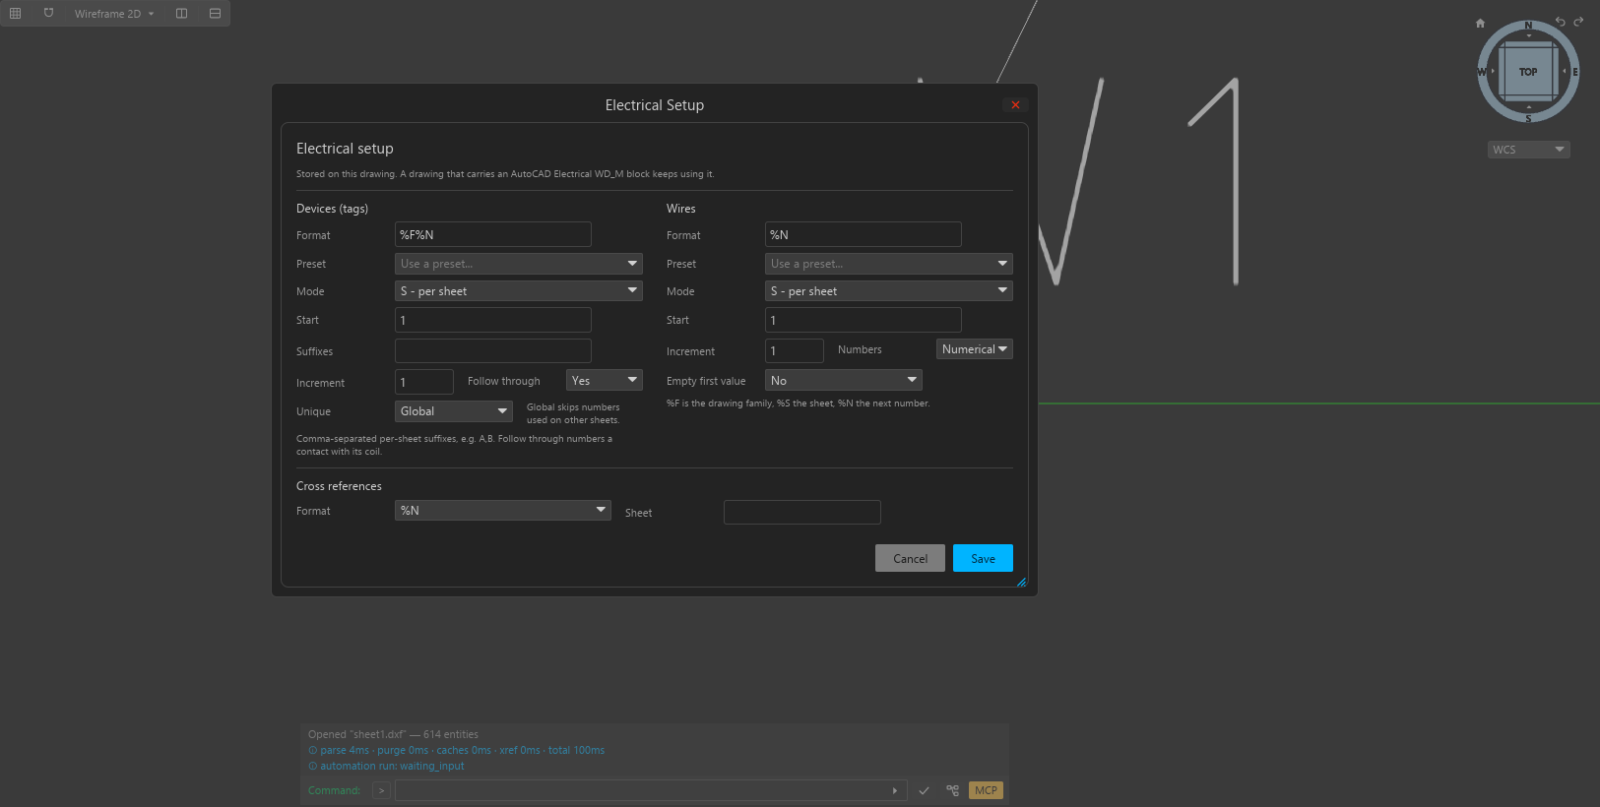
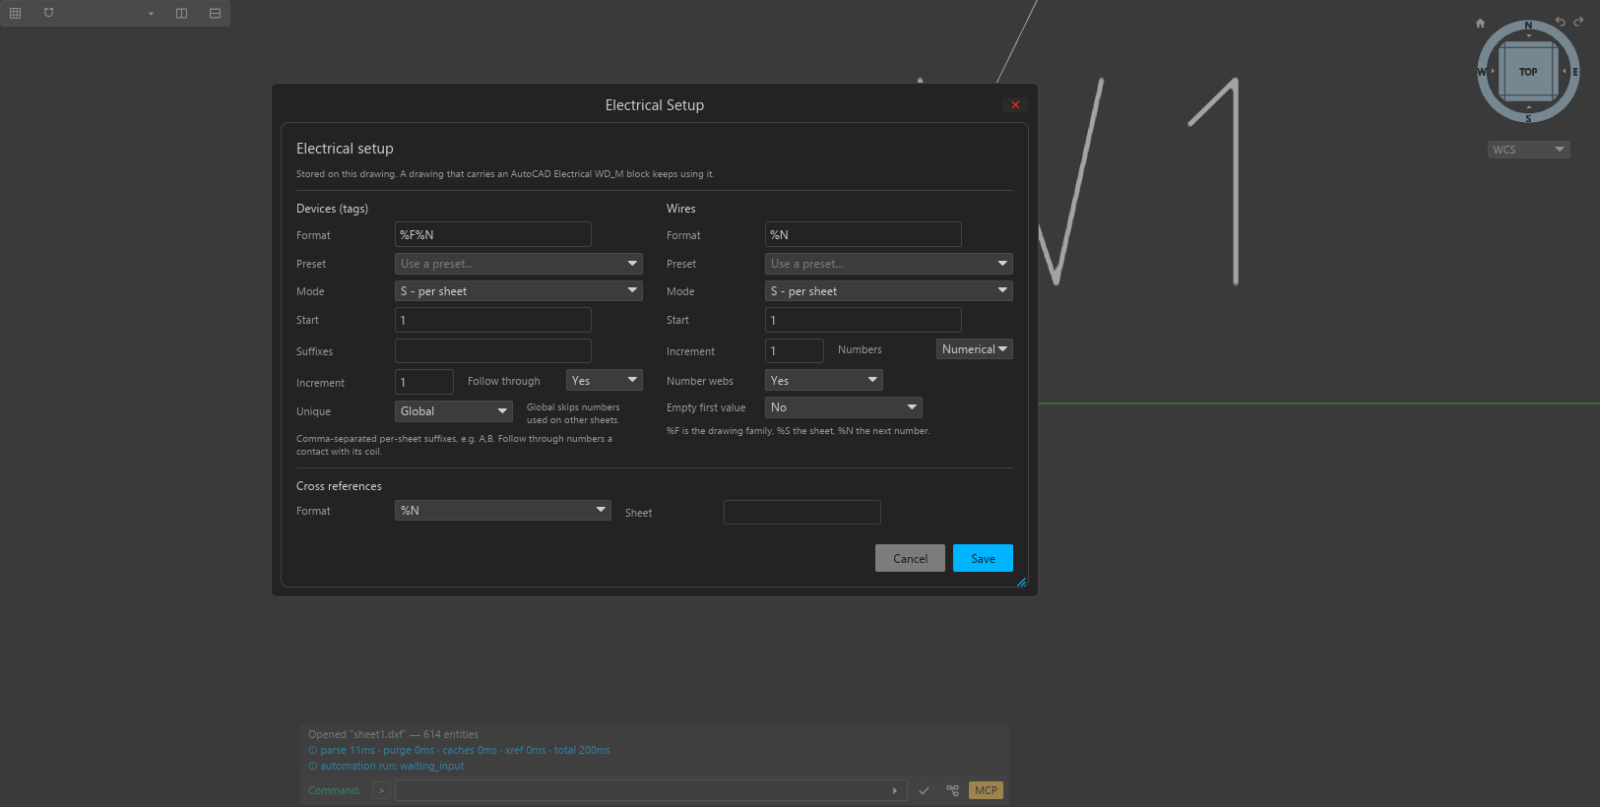
Number connection webs or single segments, SkyCAD's last numbering switch

Changed region(s): [[0.4062, 0.4337, 0.5938, 0.5576]]

diff --git a/src/app/commands/elec.rs b/src/app/commands/elec.rs
@@ -241,6 +241,10 @@ struct ElecSetup {
     wire_alphabetical: bool,
     /// Leave the first wire number blank (SkyCAD's "Empty first value").
     wire_empty_first: bool,
+    /// Number whole connection webs instead of single segments (SkyCAD's
+    /// "Number connection webs"): on, every conductor of one net shares a
+    /// number; off, each drawn segment takes its own.
+    wire_number_web: bool,
     /// SkyCAD's "Uniqueness scope": `Global` keeps a number from being reused on
     /// another sheet of the project, `Local` only inside this drawing, and `None`
     /// does not consult other tags at all.
@@ -265,6 +269,7 @@ impl Default for ElecSetup {
             wire_increment: 1,
             wire_alphabetical: false,
             wire_empty_first: false,
+            wire_number_web: true,
             tag_unique: "Global".to_string(),
         }
     }
@@ -395,6 +400,9 @@ fn read_setup(document: &codec::Document) -> ElecSetup {
         if let Some(value) = property("ELEC_TAGUNIQ") {
             setup.tag_unique = canonical_uniqueness(&value);
         }
+        if let Some(value) = property("ELEC_WIREWEB") {
+            setup.wire_number_web = !value.eq_ignore_ascii_case("No");
+        }
     }
     setup
 }
@@ -435,6 +443,10 @@ fn write_setup_properties(document: &mut codec::Document, setup: &ElecSetup) {
             if setup.wire_empty_first { "Yes" } else { "No" }.to_string(),
         ),
         ("ELEC_TAGUNIQ", canonical_uniqueness(&setup.tag_unique)),
+        (
+            "ELEC_WIREWEB",
+            if setup.wire_number_web { "Yes" } else { "No" }.to_string(),
+        ),
     ];
     for (key, value) in values {
         if let Some(entry) = document
@@ -1913,7 +1925,7 @@ fn class_for_reference(tag: &str) -> &'static str {
             setup.tag_unique
         ));
         self.command_line.push_output(&format!(
-            "  wire  {}  mode {}  start {}  step {}  numbers {}  empty first {}",
+            "  wire  {}  mode {}  start {}  step {}  numbers {}  empty first {}  webs {}",
             setup.wire_format,
             setup.wire_mode,
             setup.wire_start,
@@ -1923,7 +1935,8 @@ fn class_for_reference(tag: &str) -> &'static str {
             } else {
                 "numerical"
             },
-            if setup.wire_empty_first { "yes" } else { "no" }
+            if setup.wire_empty_first { "yes" } else { "no" },
+            if setup.wire_number_web { "yes" } else { "no" }
         ));
         self.command_line
             .push_output(&format!("  xref  {}  sheet {sheet}", setup.xref_format));
@@ -1960,6 +1973,7 @@ fn class_for_reference(tag: &str) -> &'static str {
             }
             .to_string(),
             wire_empty_first: if setup.wire_empty_first { "Yes" } else { "No" }.to_string(),
+            wire_number_web: if setup.wire_number_web { "Yes" } else { "No" }.to_string(),
             error: None,
         });
         self.active_modal = Some(crate::app::ModalKind::ElecSetup);
@@ -1991,6 +2005,7 @@ fn class_for_reference(tag: &str) -> &'static str {
             SetupMsg::WireIncrement(value) => state.wire_increment = value,
             SetupMsg::WireKind(value) => state.wire_kind = value,
             SetupMsg::WireEmptyFirst(value) => state.wire_empty_first = value,
+        SetupMsg::WireNumberWeb(value) => state.wire_number_web = value,
             SetupMsg::XrefFormat(value) => state.xref_format = value,
             SetupMsg::Sheet(value) => state.sheet = value,
             SetupMsg::Ok => return self.apply_elec_setup(),
@@ -2060,6 +2075,7 @@ fn class_for_reference(tag: &str) -> &'static str {
                 .trim()
                 .eq_ignore_ascii_case("Alphabetical"),
             wire_empty_first: state.wire_empty_first.trim().eq_ignore_ascii_case("Yes"),
+            wire_number_web: state.wire_number_web.trim().eq_ignore_ascii_case("Yes"),
             tag_unique: canonical_uniqueness(&state.tag_unique),
         };
         write_setup_properties(&mut self.tabs[i].scene.document, &stored);
@@ -2089,7 +2105,7 @@ fn class_for_reference(tag: &str) -> &'static str {
         use crate::ui::window::elec_setup::{mode_label, mode_letter};
 
         const VALID: &str = "TAGFMT, TAGMODE, TAGSTART, TAGSUF, TAGINC, TAGFALL, TAGUNIQ, \
-WIREFMT, WIREMODE, WIRESTART, WIREINC, WIREKIND, WIREEMPTY, XREFFMT, SHEET";
+WIREFMT, WIREMODE, WIRESTART, WIREINC, WIREKIND, WIREEMPTY, WIREWEB, XREFFMT, SHEET";
 
         let mut setup = read_setup(&self.tabs[i].scene.document);
         let mut error: Option<String> = None;
@@ -2139,6 +2155,7 @@ WIREFMT, WIREMODE, WIRESTART, WIREINC, WIREKIND, WIREEMPTY, XREFFMT, SHEET";
                     setup.wire_alphabetical = value.eq_ignore_ascii_case("Alphabetical")
                 }
                 "WIREEMPTY" => setup.wire_empty_first = value.eq_ignore_ascii_case("Yes"),
+                "WIREWEB" => setup.wire_number_web = !value.eq_ignore_ascii_case("No"),
                 "XREFFMT" => setup.xref_format = value.to_string(),
                 "SHEET" => setup.sheet = value.to_string(),
                 _ => unknown.push(key.clone()),
@@ -2860,22 +2877,35 @@ WIREFMT, WIREMODE, WIRESTART, WIREINC, WIREKIND, WIREEMPTY, XREFFMT, SHEET";
             return Task::none();
         }
 
-        // Order nets by where their first wire sits, so numbers follow the drawing.
-        let mut ordered: Vec<(i64, i64, u64)> = Vec::new();
-        for net in &netlist.nets {
-            // A net of coincident symbols has no wires and nothing to label.
-            let Some(first_wire) = net.wires.first().copied() else {
-                continue;
-            };
-            let Some(first) = wires.iter().find(|wire| wire.id == first_wire) else {
-                continue;
-            };
-            let mid_x = (first.from.x + first.to.x) / 2.0;
-            let mid_y = (first.from.y + first.to.y) / 2.0;
-            let (row, column) = reading_order_key(mid_x, mid_y);
-            ordered.push((row, column, net.id));
+        // SkyCAD's "Number connection webs": on, every conductor of one net shares a
+        // number because the web is one electrical node; off, each drawn segment is
+        // numbered on its own, which is what a panel builder wants for wire tags.
+        let number_webs = read_setup(&self.tabs[i].scene.document).wire_number_web;
+        // One entry per thing that takes a number: (row, column, wires, net).
+        let mut ordered: Vec<(i64, i64, Vec<u64>, Option<u64>)> = Vec::new();
+        if number_webs {
+            for net in &netlist.nets {
+                // A net of coincident symbols has no wires and nothing to label.
+                let Some(first_wire) = net.wires.first().copied() else {
+                    continue;
+                };
+                let Some(first) = wires.iter().find(|wire| wire.id == first_wire) else {
+                    continue;
+                };
+                let mid_x = (first.from.x + first.to.x) / 2.0;
+                let mid_y = (first.from.y + first.to.y) / 2.0;
+                let (row, column) = reading_order_key(mid_x, mid_y);
+                ordered.push((row, column, net.wires.clone(), Some(net.id)));
+            }
+        } else {
+            for wire in wires {
+                let mid_x = (wire.from.x + wire.to.x) / 2.0;
+                let mid_y = (wire.from.y + wire.to.y) / 2.0;
+                let (row, column) = reading_order_key(mid_x, mid_y);
+                ordered.push((row, column, vec![wire.id], None));
+            }
         }
-        ordered.sort_unstable();
+        ordered.sort_unstable_by_key(|(row, column, _, _)| (*row, *column));
 
         // The drawing's own wire numbering contract when it has one, so a sheet drawn in
         // AutoCAD Electrical numbers wires the way its `WIREFMT` says.
@@ -2895,14 +2925,13 @@ WIREFMT, WIREMODE, WIRESTART, WIREINC, WIREKIND, WIREEMPTY, XREFFMT, SHEET";
         let mut creates: Vec<(String, f64, f64)> = Vec::new();
         let mut report: Vec<String> = Vec::new();
 
-        for (ordinal, (_row, _column, net_id)) in ordered.iter().enumerate() {
+        for (ordinal, (_row, _column, unit_wires, net_id)) in ordered.iter().enumerate() {
             if skip_first && ordinal == 0 {
                 report.push("  (first net left blank)".to_string());
                 continue;
             }
-            let net = netlist.nets.iter().find(|net| net.id == *net_id).unwrap();
             let number = format.value(ordinal as u32);
-            let Some(first_wire) = net.wires.first().copied() else {
+            let Some(first_wire) = unit_wires.first().copied() else {
                 continue;
             };
             let Some(first) = wires.iter().find(|wire| wire.id == first_wire) else {
@@ -2913,32 +2942,46 @@ WIREFMT, WIREMODE, WIRESTART, WIREINC, WIREKIND, WIREEMPTY, XREFFMT, SHEET";
             let reuse = existing.iter().find(|(_, _, ex, ey)| {
                 (ex - x).abs() <= 0.1 && (ey - y).abs() <= 0.1
             });
-            let names: Vec<String> = net
-                .anchors
-                .iter()
-                .map(|id| graph.label_of(*id))
-                .collect();
+            let subject = match net_id {
+                Some(id) => format!("net {id}"),
+                None => "segment".to_string(),
+            };
+            let names: Vec<String> = match net_id {
+                Some(id) => netlist
+                    .nets
+                    .iter()
+                    .find(|net| net.id == *id)
+                    .map(|net| {
+                        net.anchors
+                            .iter()
+                            .map(|anchor| graph.label_of(*anchor))
+                            .collect()
+                    })
+                    .unwrap_or_default(),
+                None => Vec::new(),
+            };
             match reuse {
                 Some((handle, current, _, _)) if current == &number => {
-                    report.push(format!("  {number}: net {net_id} (unchanged)"));
+                    report.push(format!("  {number}: {subject} (unchanged)"));
                 }
                 Some((handle, _, _, _)) => {
                     updates.push((*handle, number.clone()));
                     report.push(format!(
-                        "  {number}: net {net_id} ({} -> {number})",
+                        "  {number}: {subject} ({} -> {number})",
                         names.join(", ")
                     ));
                 }
                 None => {
                     creates.push((number.clone(), x, y));
-                    report.push(format!("  {number}: net {net_id} ({})", names.join(", ")));
+                    report.push(format!("  {number}: {subject} ({})", names.join(", ")));
                 }
             }
         }
 
         let summary = format!(
-            "ELECWIRENUMBER: {} net(s); {} label(s) created, {} updated.",
+            "ELECWIRENUMBER: {} {}; {} label(s) created, {} updated.",
             ordered.len(),
+            if number_webs { "net(s)" } else { "segment(s)" },
             creates.len(),
             updates.len()
         );

diff --git a/tests/ecad/run_smoke.py b/tests/ecad/run_smoke.py
@@ -1247,6 +1247,39 @@ def run_uniqueness_scope(binary):
     tags = tags_of(sheet_c)
     check("a local scope restarts at -K1", tags == ["-K1"], f"{tags}")
 
+    # Connection webs: a corner is one net, two segments. Number webs -> one label;
+    # number segments -> one label each.
+    def corner_labels(command, name):
+        sheet = blank_drawing(os.path.join(WORK, name + ".dxf"))
+        batch = write_inline_batch(name + "_batch.txt", [
+            "ELECNEW",
+            command,
+            "ELECWIRE",
+            "0,0",
+            "40,0",
+            "",
+            "ELECWIRE",
+            "40,0",
+            "40,40",
+            "",
+            "ELECWIRE",
+            "100,0",
+            "140,0",
+            "",
+            "ELECWIRENUMBER",
+            f"SAVEAS {sheet}",
+        ])
+        code, text = run(binary, [binary, "--each", batch, sheet], name)
+        drawing = dxfio.load(sheet)
+        return sorted(e.s(1) for e in on_layer(drawing, "WIRENO") if e.kind == "TEXT"), text
+
+    labels, text = corner_labels("ELECSETUP WIREWEB=Yes", "numbering_webs")
+    check("numbering by web labels a corner once", labels == ["1", "2"], f"{labels}")
+
+    labels, text = corner_labels("ELECSETUP WIREWEB=No", "numbering_segments")
+    check("numbering by segment labels each conductor",
+          labels == ["1", "2", "3"], f"{labels}")
+
 def run_machine_files():
     section("14. the machine-readable artifacts")
     # WD_M profile

diff --git a/src/ui/window/elec_setup.rs b/src/ui/window/elec_setup.rs
@@ -35,6 +35,7 @@ pub struct State {
     pub wire_increment: String,
     pub wire_kind: String,
     pub wire_empty_first: String,
+    pub wire_number_web: String,
     pub error: Option<String>,
 }
 
@@ -53,6 +54,7 @@ pub enum SetupMsg {
     WireIncrement(String),
     WireKind(String),
     WireEmptyFirst(String),
+    WireNumberWeb(String),
     XrefFormat(String),
     Sheet(String),
     Ok,
@@ -228,6 +230,13 @@ pub(crate) fn view(state: &State, sizing: ModalSizing) -> Element<'_, Message> {
             ),
         ]
         .spacing(14),
+        labeled_pick_list(
+            "Number webs".into(),
+            yes_no_options(),
+            Some(state.wire_number_web.clone()),
+            |value| Message::ElecSetup(SetupMsg::WireNumberWeb(value)),
+            Length::Fixed(120.0),
+        ),
         labeled_pick_list(
             "Empty first value".into(),
             yes_no_options(),

diff --git a/handoff.md b/handoff.md
@@ -478,7 +478,7 @@ against a GUI with more than one tab.
 **Still open**: `ELECLIST` still prints the block name as the class for library-less
 symbols, which the reports render as-is.
 
-## 15. Round 27 (2026-11-07): uniqueness scope, smoke 111/111
+## 15. Round 27 (2026-11-07): uniqueness scope, connection webs, smoke 113/113
 
 The last SkyCAD `NumberingFormat` field is now honoured end to end. ELECPANEL already read
 `library/panel/footprints.tsv`, so panel layout was not a gap.
@@ -496,17 +496,26 @@ refused with "TAGUNIQ must be Global, Local or None."), the `ELECSETUP` printout
 `unique <scope>` on the tag line, and the dialog has a `Unique` pick list under `Follow
 through` with the hint "Global skips numbers used on other sheets."
 
+**Number connection webs.** `ElecSetup` gained `wire_number_web` (default on, property
+`ELEC_WIREWEB`). `ELECWIRENUMBER` now numbers either one number per net - a web is one
+electrical node, so every conductor of it shares the number - or, with the option off, one
+number per drawn segment, which is what a panel builder wants for wire tags. The summary
+line says which unit it counted (`net(s)` / `segment(s)`). Exposed as `ELECSETUP WIREWEB=No`
+and as a `Number webs` pick list in the dialog.
+
 **Tests.** Two unit assertions (`ELEC_TAGUNIQ` round-trip; the dialog stores `None`) in
 `mod elec_setup_tests` - 4 passed. New smoke section 16 (`run_uniqueness_scope`) numbers a
 first sheet `-K1`/`-K2`, then numbers a second sheet with `TAGUNIQ=Global` (expects `-K3`)
-and a third with `TAGUNIQ=Local` (expects `-K1`).
+and a third with `TAGUNIQ=Local` (expects `-K1`). Two more checks draw a corner (two
+segments, one net) plus a loose conductor and assert `WIREWEB=Yes` labels twice while
+`WIREWEB=No` labels three times.
 
 | Check | Result |
 |---|---|
 | `cargo check --release` | clean |
 | `cargo test --release --lib elec_setup` | 4 passed |
-| `cargo build --release -j 4` | finished in 8 m 25 s |
-| `py -3.13 tests\ecad\run_smoke.py` | **111/111 checks passed** |
+| `cargo build --release -j 4` | finished in 8 m 13 s |
+| `py -3.13 tests\ecad\run_smoke.py` | **113/113 checks passed** |
 | `docs/screenshots/ecad-numbering-setup.png` | re-captured with the `Unique` row |
 
 **Still open**: `ELECLIST` prints the block name as the class for library-less symbols.
